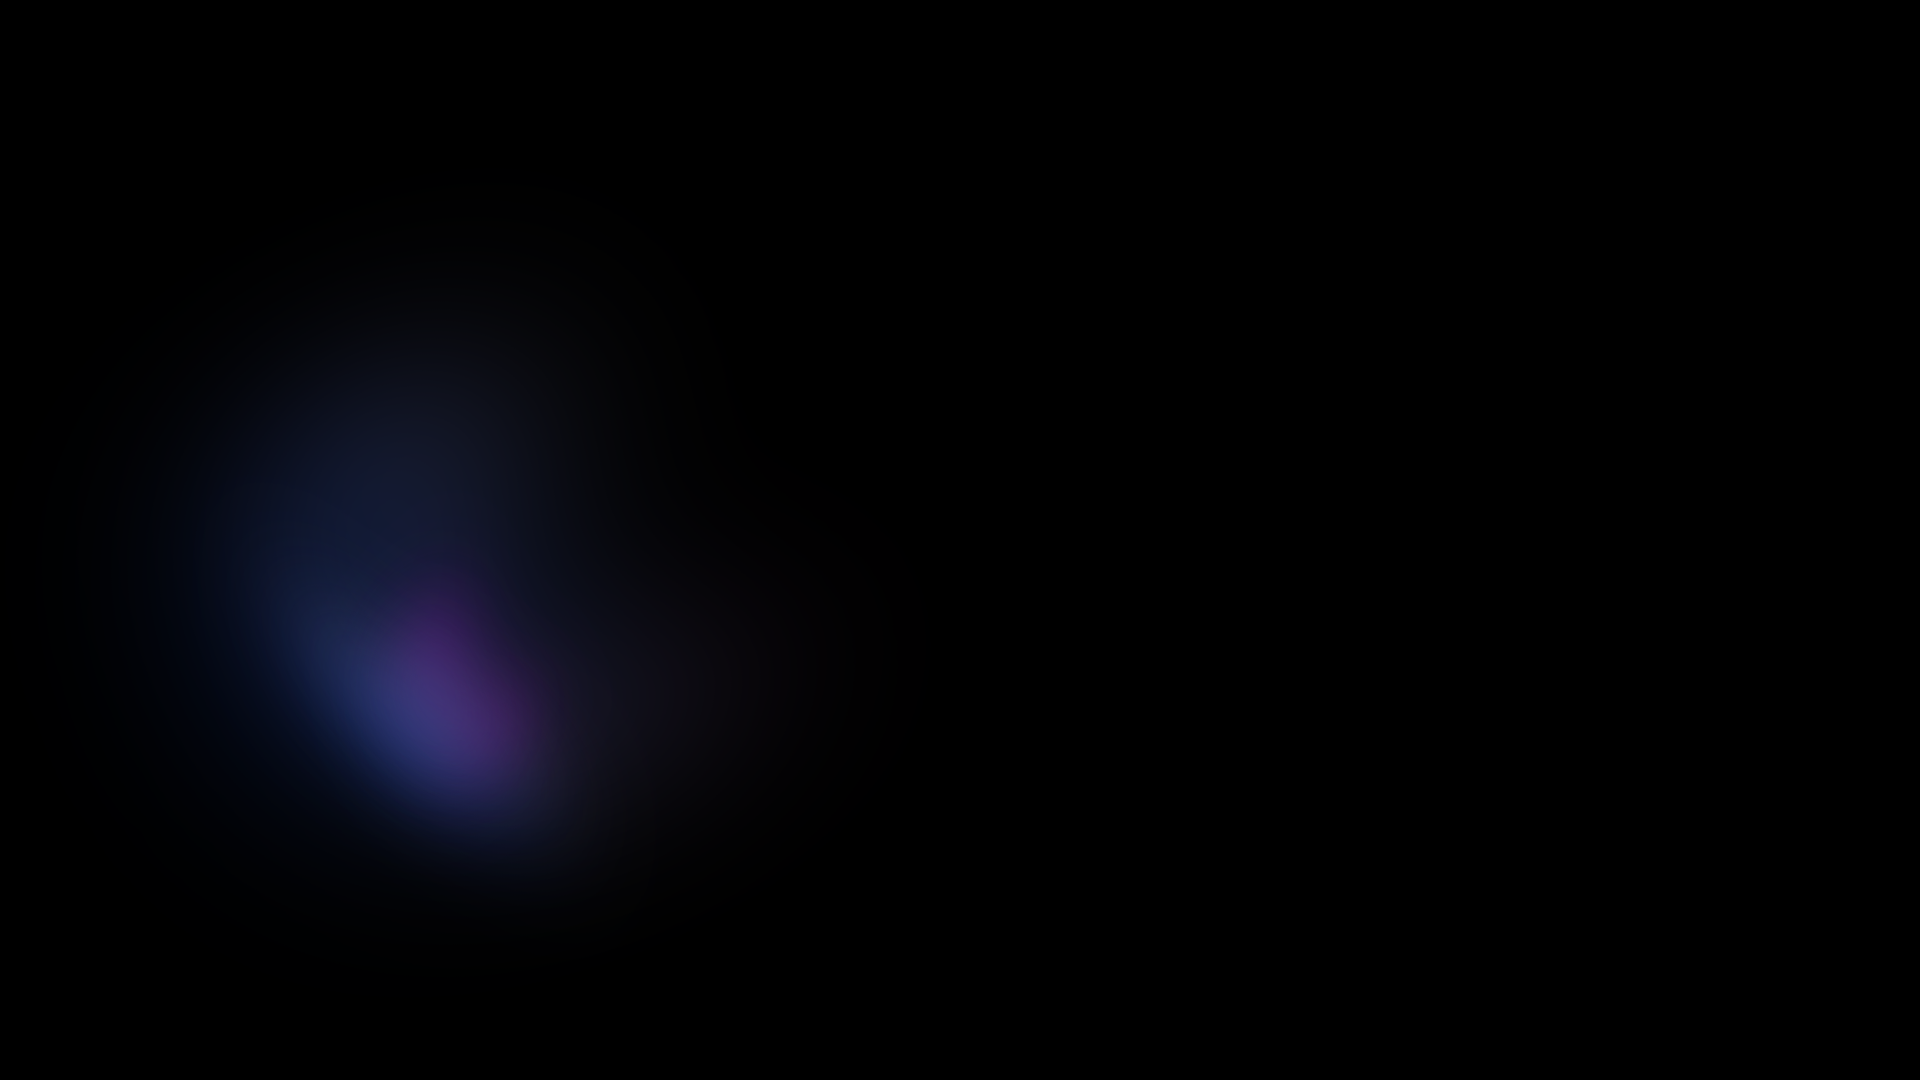
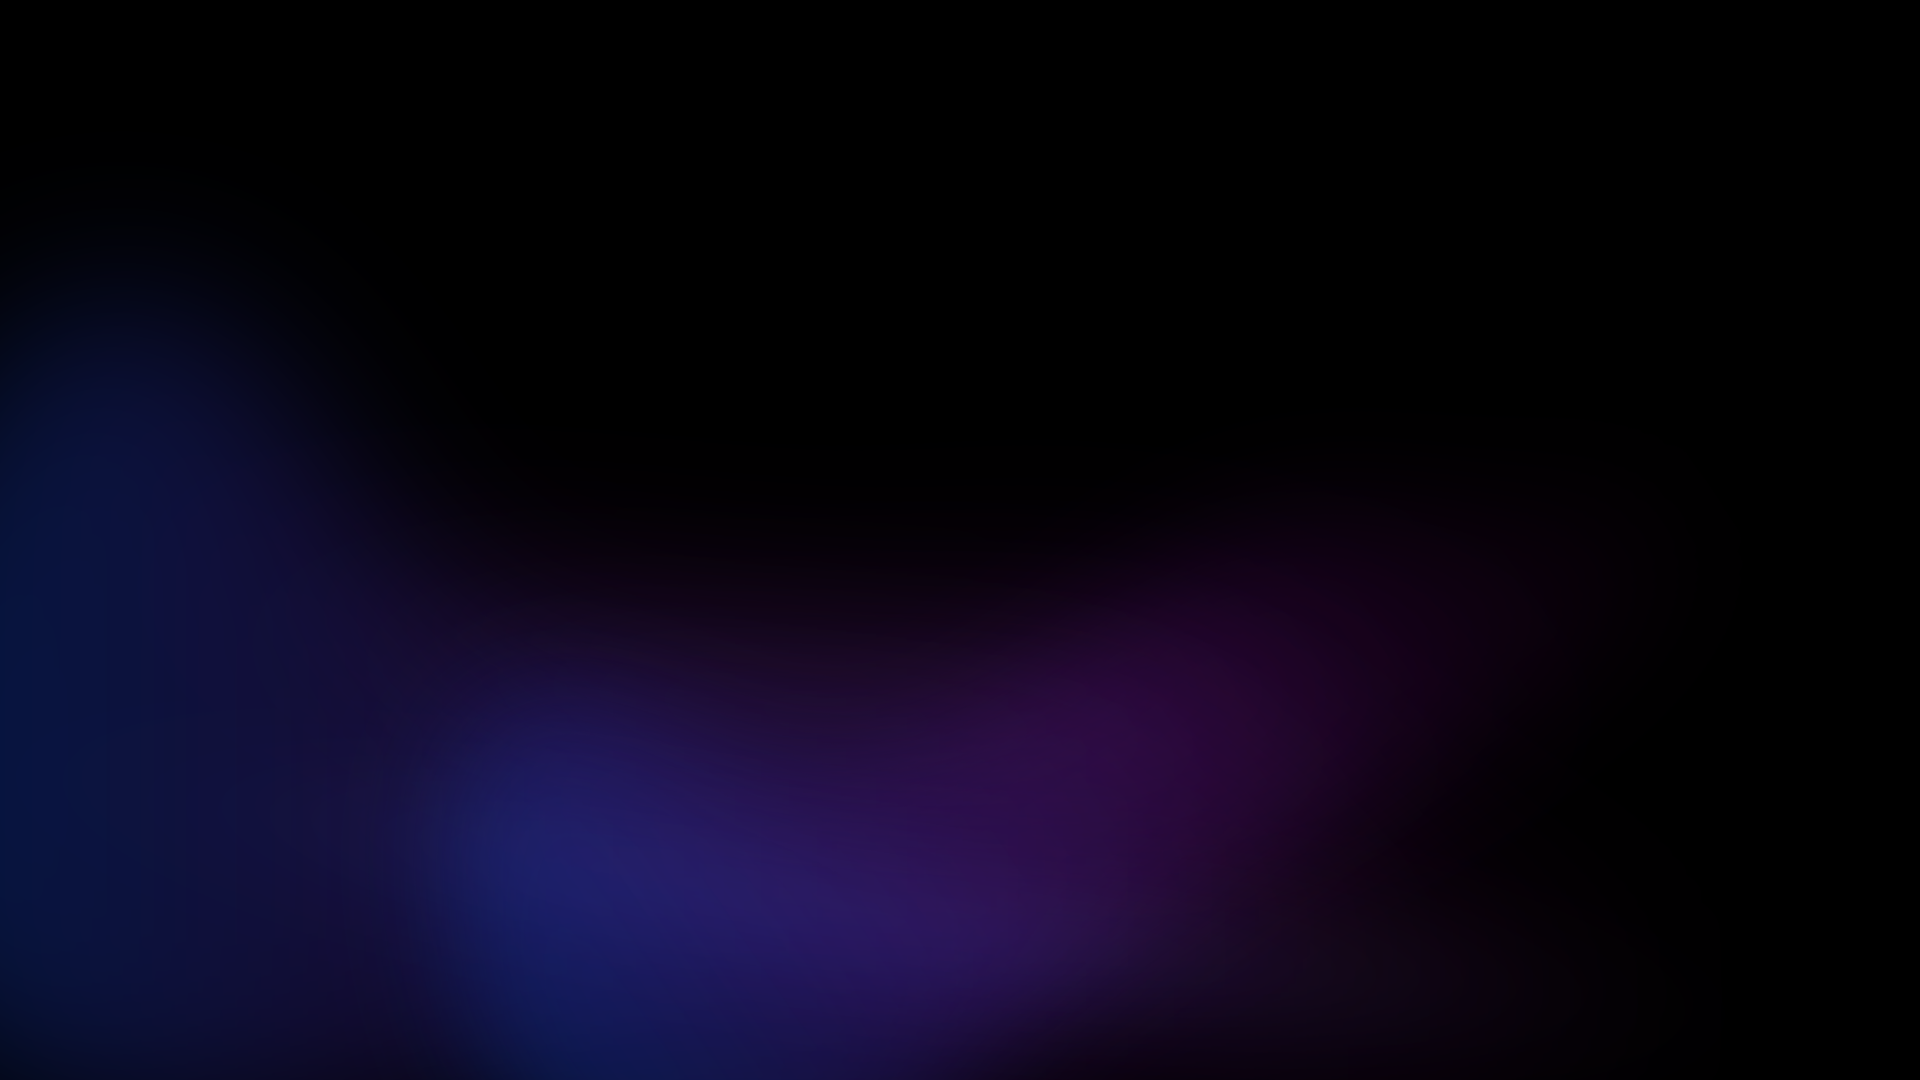
adjust background section style

diff --git a/src/components/about.html b/src/components/about.html
@@ -1,8 +1,12 @@
 <!-- About-Bereich mit mehr Abstand unter der Überschrift -->
 <section id="about" class="section py-5"
-    style="position: relative; background: url('images/Background-About_2.png') no-repeat center center; background-size: cover; min-height: 800px;">
+    style="position: relative; 
+    background: url('images/Background-About.png') no-repeat center center;
+    border-radius: 30px; 
+    background-size: cover; 
+    min-height: 800px;">
     <!-- Overlay, um den Text vom Hintergrund abzuheben -->
-    <div style="position: absolute; top: 0; left: 0; width: 100%; height: 100%"></div>
+    <div style="position: absolute; top: 0; left: 0; inset: 0; background: rgba(0,0,0,0.6); width: 100%; height: 100%"></div>
     <div class="container"
         style="position: relative; z-index: 2; display: flex; flex-direction: column; justify-content: center; min-height: 600px;">
         <!-- Überschrift "About" mit extra margin -->

diff --git a/src/components/hardware.html b/src/components/hardware.html
@@ -1,10 +1,15 @@
-<section id="hardware" class="pt-0 pb-5" style="
+<section id="hardware" class="pt-0 pb-5" 
+style="
   position: relative;
+  background: url('images/Background-About.png') no-repeat center center; 
   background-size: cover;
   min-height: 100vh;
   border-radius: 30px;
-  overflow: hidden;
-">
+  overflow: hidden;">
+  
+<!-- Optionaler dunkler Overlay -->
+<div style="position: absolute; inset: 0; background: rgba(0,0,0,0.6); z-index: 1;"></div>
+
   <!-- Überschriften-Bereich -->
   <div class="container position-relative" style="z-index: 2;">
     <div class="row mb-5">

diff --git a/src/components/vr-wearable.html b/src/components/vr-wearable.html
@@ -1,4 +1,16 @@
-<section id="vr-wearable" class="py-5">
+<section id="vr-wearable" class="py-5 pb-0" style="
+position: relative;
+background: url('images/Background-About.png') no-repeat center center; 
+background-size: cover; 
+min-height: 100vh;
+border-radius: 30px;
+overflow: hidden;
+">
+
+<!-- Optionaler dunkler Overlay -->
+<div style="position: absolute; inset: 0; background: rgba(0,0,0,0.6); z-index: 1;"></div>
+
+
     <div class="container position-relative" style="z-index: 2;">
         <!-- Überschrift "About" mit extra margin -->
         <div class="row mb-5">

diff --git a/src/components/resources.html b/src/components/resources.html
@@ -1,5 +1,7 @@
 <section id="resources" class="pt-5 pb-0" style="
   position: relative;
+  background: url('images/Background-About.png') no-repeat center center; 
+  background-size: cover; 
   min-height: 100vh;
   border-radius: 30px;
   overflow: hidden;
